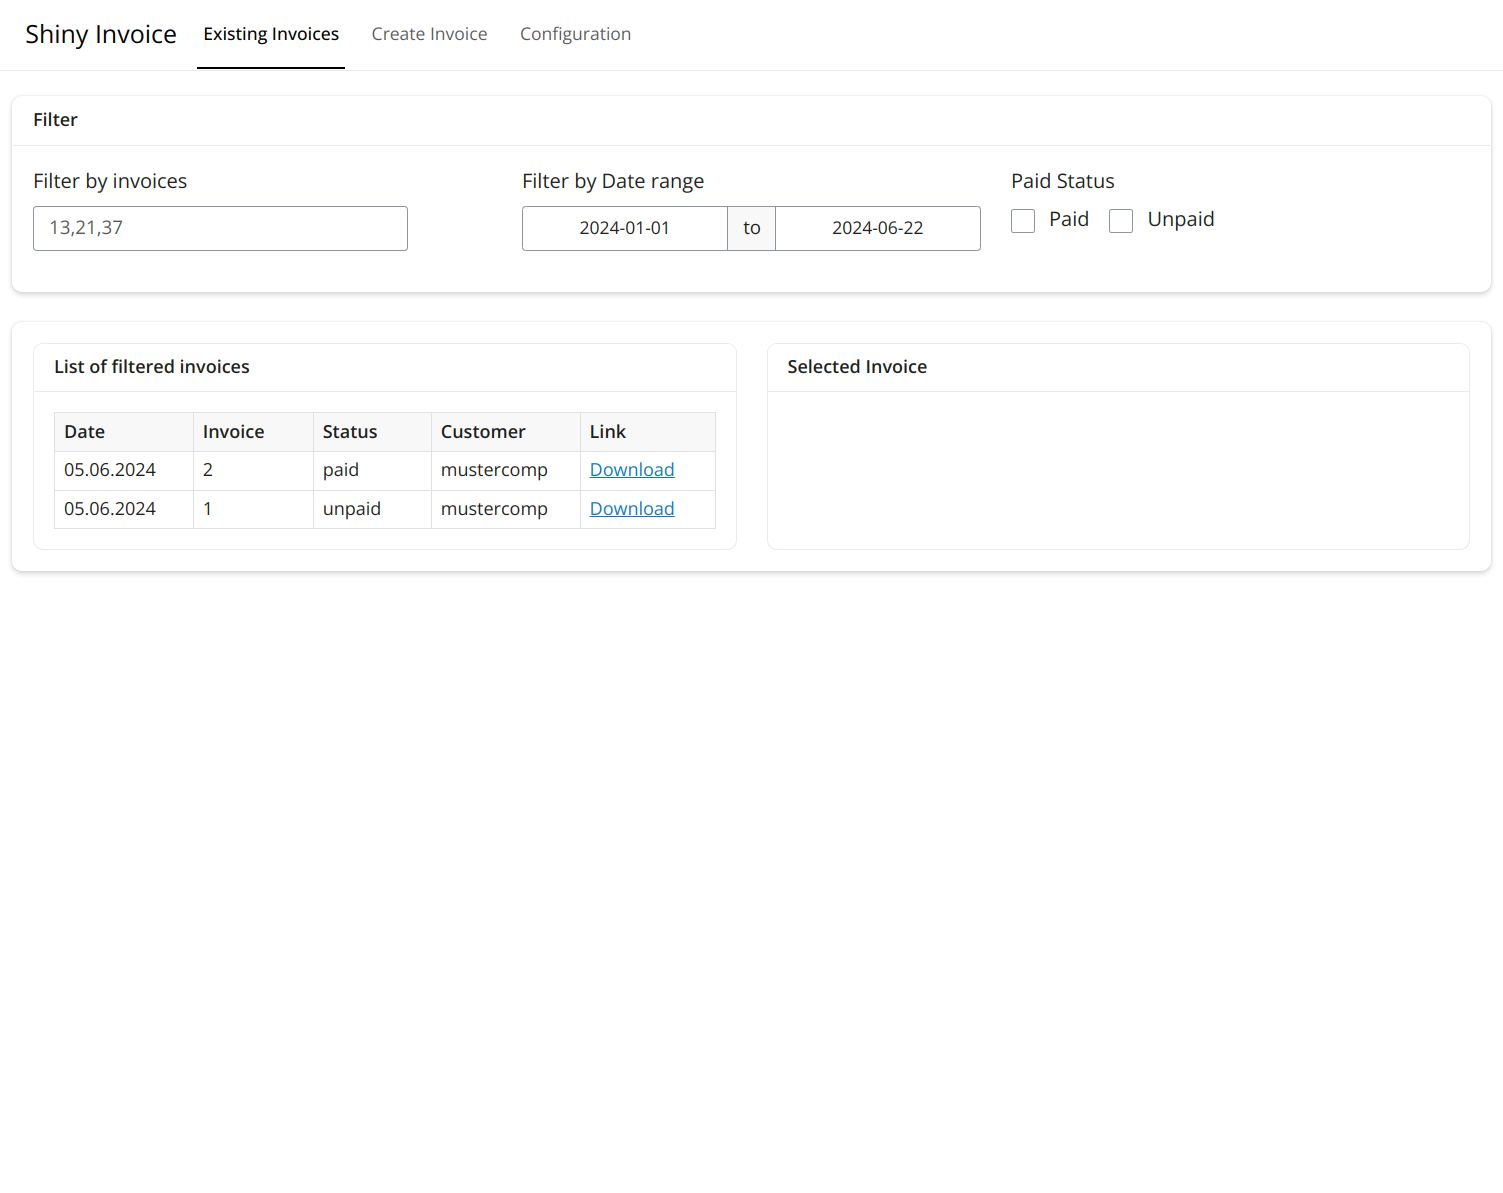
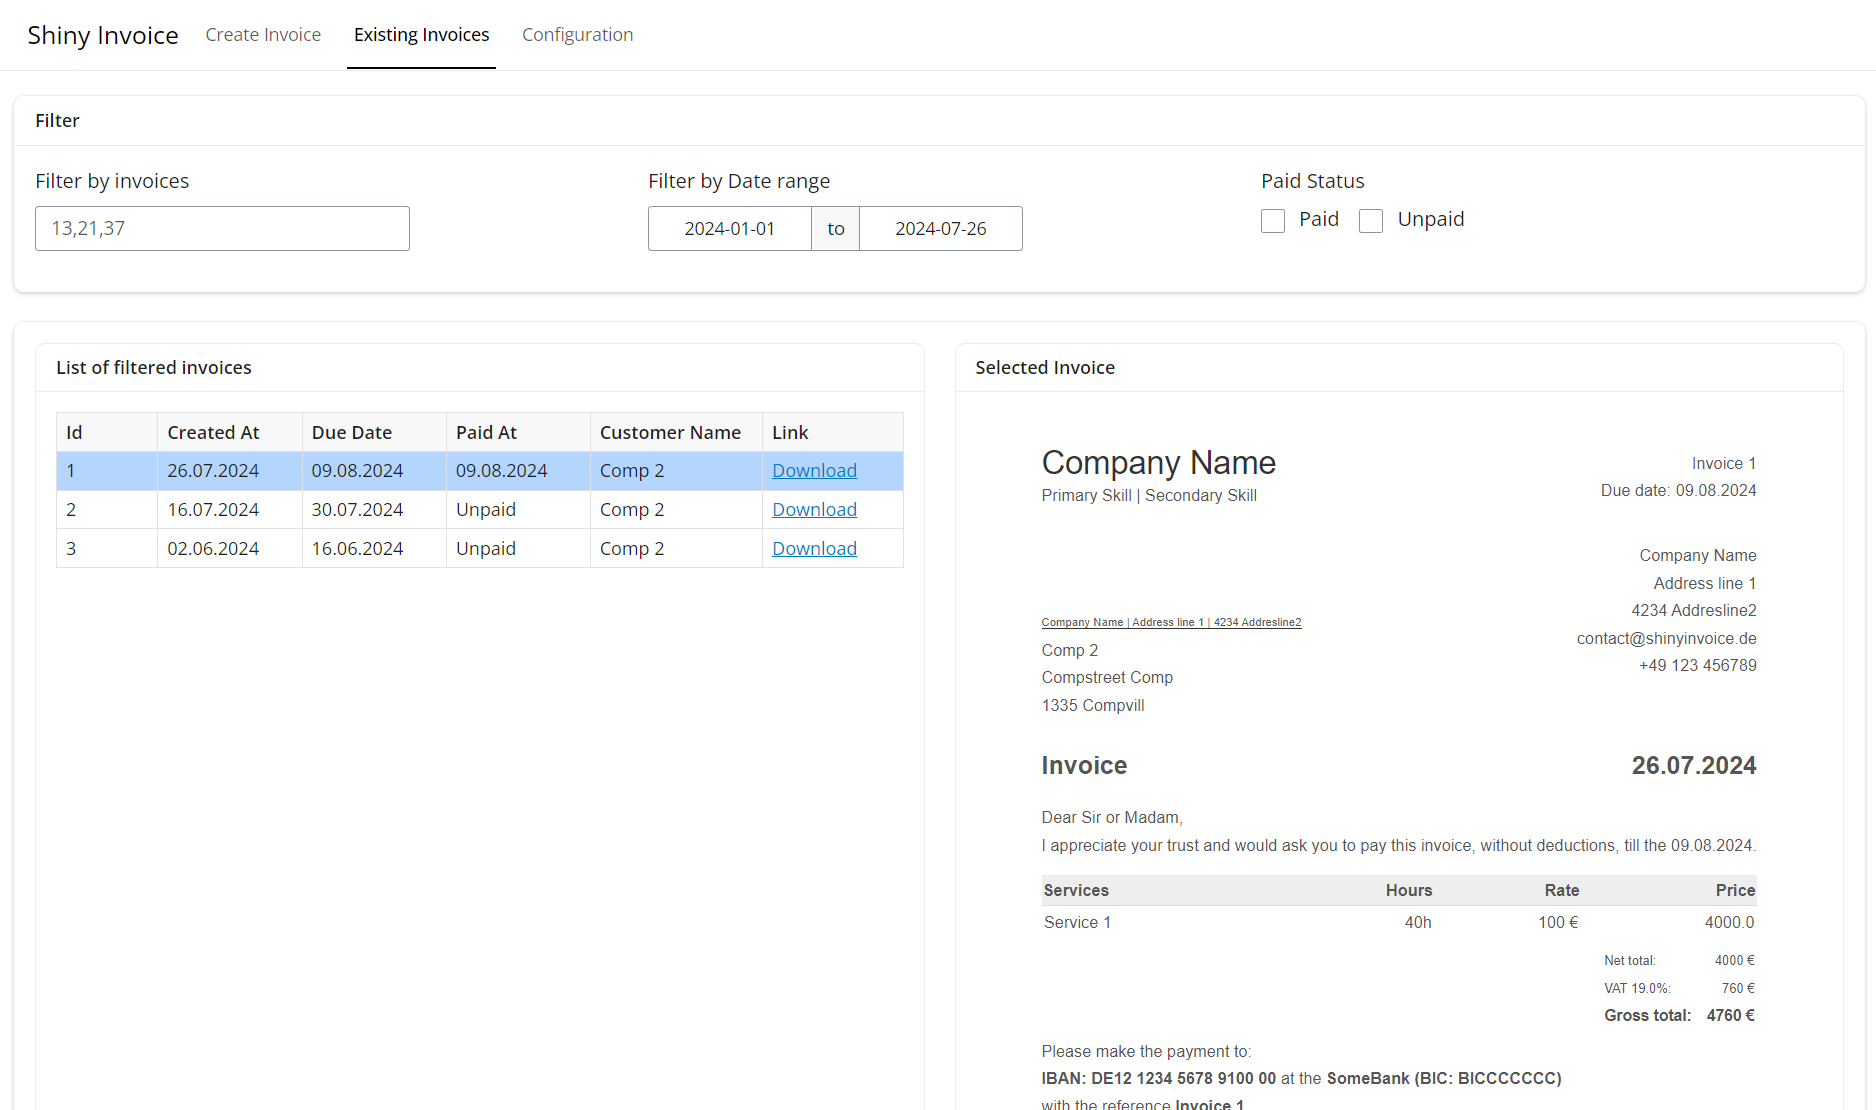
store invoice data in json datastore

diff --git a/shiny_invoice/ui_existing_invoices.py b/shiny_invoice/ui_existing_invoices.py
@@ -1,12 +1,12 @@
 """This module contains the ui and server configurations for the existing invoices."""
 
 import datetime
-import glob
 from pathlib import Path
 
 import pandas as pd
 from shiny import module, ui, render, reactive
-
+from tinydb import TinyDB, Query
+from tinydb.operations import set
 
 @module.ui
 def existing_invoices_ui():
@@ -48,75 +48,78 @@ def existing_invoices_ui():
 def existing_invoices_server(input, output, session, config):
     """Contains the Shiny Server for existing invoices"""
 
+    datastore = TinyDB(config.get("paths").get("datastore"))
+
     @reactive.calc
     def get_filtered_invoices() -> pd.DataFrame | str:
-        """Retrieve all invoices from the configured directories and parse them into a DataFrame.
+        """Retrieve all invoices from the datastore and turn them into a DataFrame.
         The input filters will then be applied to the dataframe such that only the desired results
         will be returned.
         """
-        paid_records, unpaid_records = _get_invoice_records()
-        df = pd.DataFrame.from_records(paid_records + unpaid_records)
+        selected_invoices = datastore.all()
+        for invoice in selected_invoices:
+            invoice["Link"] = ui.a("Download", href=f"{invoice["Id"]}.html", target="_blank")
+        df = pd.DataFrame.from_records(selected_invoices)
         if len(df) == 0:
             return df
-        duplicate_numbers = df[df.duplicated(["Invoice"], keep="last")]
-        if len(duplicate_numbers) > 0:
-            duplicate_ids = ", ".join(duplicate_numbers["Invoice"].to_list())
-            ui.notification_show(
-                f"Found duplicate invoice ids: {duplicate_ids}", type="warning", duration=2
-            )
         df = _filter_invoices(df)
+        df["Created At"] = df["Created At"].apply(lambda x: x.strftime("%d.%m.%Y"))
+        df["Due Date"] = df["Due Date"].apply(lambda x: x.strftime("%d.%m.%Y"))
+        df["Paid At"] = df["Paid At"].apply(
+            lambda x: datetime.datetime.strptime(x, "%Y-%m-%d").strftime("%d.%m.%Y") if x != "Unpaid" else "Unpaid")
         return df
-
-    def _get_invoice_records():
-        root_dir = Path(config.get("paths").get("invoices_root_dir"))
-        paid_dir = root_dir / config.get("paths").get("invoices_dir_paid")
-        unpaid_dir = root_dir / config.get("paths").get("invoices_dir_unpaid")
-        paid_invoices = glob.glob(f"{paid_dir}/**/*.html", recursive=True)
-        unpaid_invoices = glob.glob(f"{unpaid_dir}/**/*.html", recursive=True)
-        paid_records = _create_invoice_records(paid_invoices, status="paid")
-        unpaid_records = _create_invoice_records(unpaid_invoices, status="unpaid")
-        return paid_records, unpaid_records
 
     def _filter_invoices(df):
         if input.invoice_numbers():
-            filtered_invoice_ids = input.invoice_numbers().split(",")
-            df = df.loc[df["Invoice"].isin(filtered_invoice_ids)]
+            filtered_ids = input.invoice_numbers().split(",")
+            df = df.loc[df["Id"].isin(filtered_ids)]
         if input.paid_status():
-            df = df.loc[df["Status"].isin(input.paid_status())]
+            paid, unpaid = pd.DataFrame(), pd.DataFrame()
+            if "paid" in input.paid_status():
+                paid = df.loc[df["Paid At"] != "Unpaid"]
+            if "unpaid" in input.paid_status():
+                unpaid = df.loc[df["Paid At"] == "Unpaid"]
+            df = pd.concat([paid, unpaid])
+        df["Created At"] = pd.to_datetime(df["Created At"]).dt.date
+        df["Due Date"] = pd.to_datetime(df["Due Date"]).dt.date
         start_date = input.daterange()[0]
         end_date = input.daterange()[1]
-        df = df[(df["Date"] >= start_date) & (df["Date"] <= end_date)]
-        df["Date"] = df["Date"].apply(lambda x: x.strftime("%d.%m.%Y"))
+        df = df[(df["Created At"] >= start_date) & (df["Created At"] <= end_date)]
         return df
-
-    def _create_invoice_records(file_paths, status):
-        records = []
-        for invoice_path in file_paths:
-            parts = invoice_path.split("/")
-            name_parts = parts[-1].split("-")
-            date = datetime.date(
-                year=int(name_parts[0]), month=int(name_parts[1]), day=int(name_parts[2])
-            )
-            invoice_number = name_parts[3]
-            customer = name_parts[-1].replace(".html", "")
-            root_dir = config.get("paths").get("invoices_root_dir")
-            invoice_path = invoice_path.replace(root_dir, "")
-            records.append(
-                {
-                    "Date": date,
-                    "Invoice": invoice_number,
-                    "Status": status,
-                    "Customer": customer,
-                    "Link": ui.a("Download", href=invoice_path, target="_blank"),
-                }
-            )
-        return records
 
     @render.data_frame
     def invoice_list():
         """Render a list of filtered invoices"""
         df = get_filtered_invoices()
-        return render.DataGrid(df, selection_mode="rows", width="100%")
+        table = render.DataGrid(df, selection_mode="rows", width="100%", editable=True)
+        return table
+
+    def patch_table(patch):
+        """Apply edits to the table only if the fourth column 'Paid At' was changed"""
+        table_data = invoice_list.data()
+        if patch.get("column_index") != 3:
+            column_index = patch.get("column_index")
+            edited_column = table_data.columns[int(column_index)]
+            ui.notification_show(
+                "You can only edit the column 'Paid At'.",
+                type="warning",
+                duration=2,
+            )
+            return table_data[edited_column].iloc[patch.get("row_index")]
+        try:
+            Invoices = Query()
+            invoice_id = table_data.iloc[patch.get("row_index")]["Id"]
+            parsed_date = datetime.datetime.strptime(patch.get("value"), "%d.%m.%Y")
+            datastore.update(set("paid_at", parsed_date.strftime("%Y-%m-%d")), Invoices.id == invoice_id)
+        except Exception:
+            ui.notification_show(
+                "Error while updating invoice, please only use the date format '%d.%m.%Y'.",
+                type="error",
+                duration=6
+            )
+        return patch.get("value")
+
+    invoice_list.set_patch_fn(patch_table)
 
     @render.ui
     def selected_invoice():
@@ -125,7 +128,7 @@ def existing_invoices_server(input, output, session, config):
         if len(selection) > 0:
             selection = selection[0]
             df = get_filtered_invoices().iloc[selection]["Link"]
-            root_dir = Path(config.get("paths").get("invoices_root_dir"))
+            root_dir = Path(config.get("paths").get("invoices_dir"))
             with open(root_dir / df.attrs.get("href"), "r", encoding="utf8") as file:
                 html = file.read()
             return ui.HTML(html)

diff --git a/shiny_invoice/ui_new_invoice.py b/shiny_invoice/ui_new_invoice.py
@@ -7,6 +7,7 @@ from string import Template
 
 import pandas as pd
 from shiny import module, ui, render, reactive
+from tinydb import TinyDB, Query
 
 
 @module.ui
@@ -17,7 +18,7 @@ def new_invoice_ui(config):
     return ui.layout_column_wrap(
         ui.card(
             ui.card_header("Invoice Details"),
-            ui.input_text(id="invoice_number", label="Invoice Number", value="1", width="100%"),
+            ui.output_ui(id="invoice_number_ui", width="100%"),
             ui.input_date(id="created_at_date", label="Created At", width="100%"),
             ui.output_ui(id="due_date_ui", width="100%"),
             ui.input_text(
@@ -53,6 +54,8 @@ def new_invoice_ui(config):
 @module.server
 def new_invoice_server(input, output, session, config):
 
+    datastore = TinyDB(config.get("paths").get("datastore"))
+
     with open(Path(config.get("paths").get("html_template")), "r", encoding="utf8") as file:
         html_template = Template(file.read())
 
@@ -74,6 +77,15 @@ def new_invoice_server(input, output, session, config):
         return items[last_column].sum()
 
     @render.ui
+    def invoice_number_ui():
+        invoice_ids = [int(invoice.get("Id")) for invoice in datastore.all()]
+        next_id = 1
+        if invoice_ids:
+            next_id = max(invoice_ids) +1
+        number_ui = ui.input_text(id="invoice_number", label="Invoice Number", value=str(next_id), width="100%")
+        return number_ui
+
+    @render.ui
     def due_date_ui():
         payment_terms_days = config.get("company").get("payment_terms_days")
         due_date = input.created_at_date() + datetime.timedelta(days=payment_terms_days)
@@ -83,14 +95,39 @@ def new_invoice_server(input, output, session, config):
     def customer_name():
         return input.recipient_address().split("\n")[0]
 
+    @reactive.effect
+    @reactive.event(input.invoice_number)
+    def already_existing_id_modal():
+        Invoices = Query()
+        already_existing = datastore.search(Invoices.id == input.invoice_number())
+        if already_existing:
+            ui.notification_show(
+                "This invoice already exists. Please choose another invoice number.",
+                type="error",
+                duration=2,
+            )
+
     @render.download(
-        filename=lambda: f"{input.created_at_date()}-{input.invoice_number()}-{customer_name()}.html",
+        filename=lambda: f"{input.invoice_number()}.html",
     )
     def download_button():
         """Download the currently created invoice"""
+        datastore.insert({
+            "Id": input.invoice_number(),
+            "Created At": str(input.created_at_date()),
+            "Due Date": str(input.due_date()),
+            "Paid At": "Unpaid",
+            "Customer": customer_name(),
+        })
+        ui.notification_show(
+            "Reload page to update 'Existing Invoices' view.",
+            type="message",
+            duration=None
+        )
         with io.BytesIO() as buf:
             buf.write(render_invoice().encode("utf8"))
             yield buf.getvalue()
+
 
     @reactive.calc
     def render_invoice():

diff --git a/shiny_invoice/shiny_invoice.py b/shiny_invoice/shiny_invoice.py
@@ -43,8 +43,8 @@ def run(config: Path, host: str, port: int):
 
     # pylint: disable=too-many-function-args
     app_ui = ui.page_navbar(
-        ui.nav_panel("Existing Invoices", existing_invoices_ui("existing_invoices")),
         ui.nav_panel("Create Invoice", new_invoice_ui("new_invoice", config)),
+        ui.nav_panel("Existing Invoices", existing_invoices_ui("existing_invoices")),
         ui.nav_panel("Configuration", config_ui("config")),
         title="Shiny Invoice",
         id="navbar_id",
@@ -60,7 +60,7 @@ def run(config: Path, host: str, port: int):
 
     # pylint: enable=redefined-builtin, unused-argument, no-value-for-parameter
 
-    app = App(app_ui, server, static_assets=config.get("paths").get("invoices_root_dir"))
+    app = App(app_ui, server, static_assets=config.get("paths").get("invoices_dir"))
     app.run(host=host, port=port)
 
 

diff --git a/README.md b/README.md
@@ -17,10 +17,9 @@ A suitable example looks like this:
 
 ```yaml
 paths:
-  invoices_root_dir: /home/user/invoices/  # must be an absolute path, and it needs to end with /
-  invoices_dir_paid: paid
-  invoices_dir_unpaid: open
+  invoices_dir: /home/user/invoices/  # must be an absolute path, and it needs to end with /
   html_template: shiny_invoice/default_invoice_template.html
+  datastore: datastore.json
 company:  # here you can specify details of your company
   name: Company Name
   skills:
@@ -65,18 +64,18 @@ shiny-invoice run --help
 
 ## Workflow
 
-This application manages the invoices as plain html files, which then can be turned into pdfs via the 
-browsers print functionality. 
-According to the configuration invoices can be separated into paid/unpaid directories.
-Based on that they will be also categorised inside the ui.
-The application does not offer ways to move or change files, this has to be done manually. 
-The filename also needs to follow a specific pattern which is 
-`<CREATED_AT_DATE>-<INVOICE_NUMBER>-<CUSTOMERNAME>.html`
+This application manages the invoices as plain html files, named by the invoice id. 
+To turn the html file into a pdf just use the browsers print functionality. 
+All the data corresponding to the invoices is stored inside a json file, which is configured with the key
+`paths.datastore`.
+The json you can edit as you like, via the gui it is only possible to change the 'Paid At' value.
+This value is also used to determine if in invoice is indeed 'Paid' or 'Unpaid'. 
 
 ## Impressions
+
+### View of creating a new invoice
+![new-invoice.png](docs/new-invoice.png)
 
 ### View of existing invoices
 ![existing-invoices.png](docs/existing-invoices.png)
 
-### View of creating a new invoice
-![new-invoice.png](docs/new-invoice.png)
